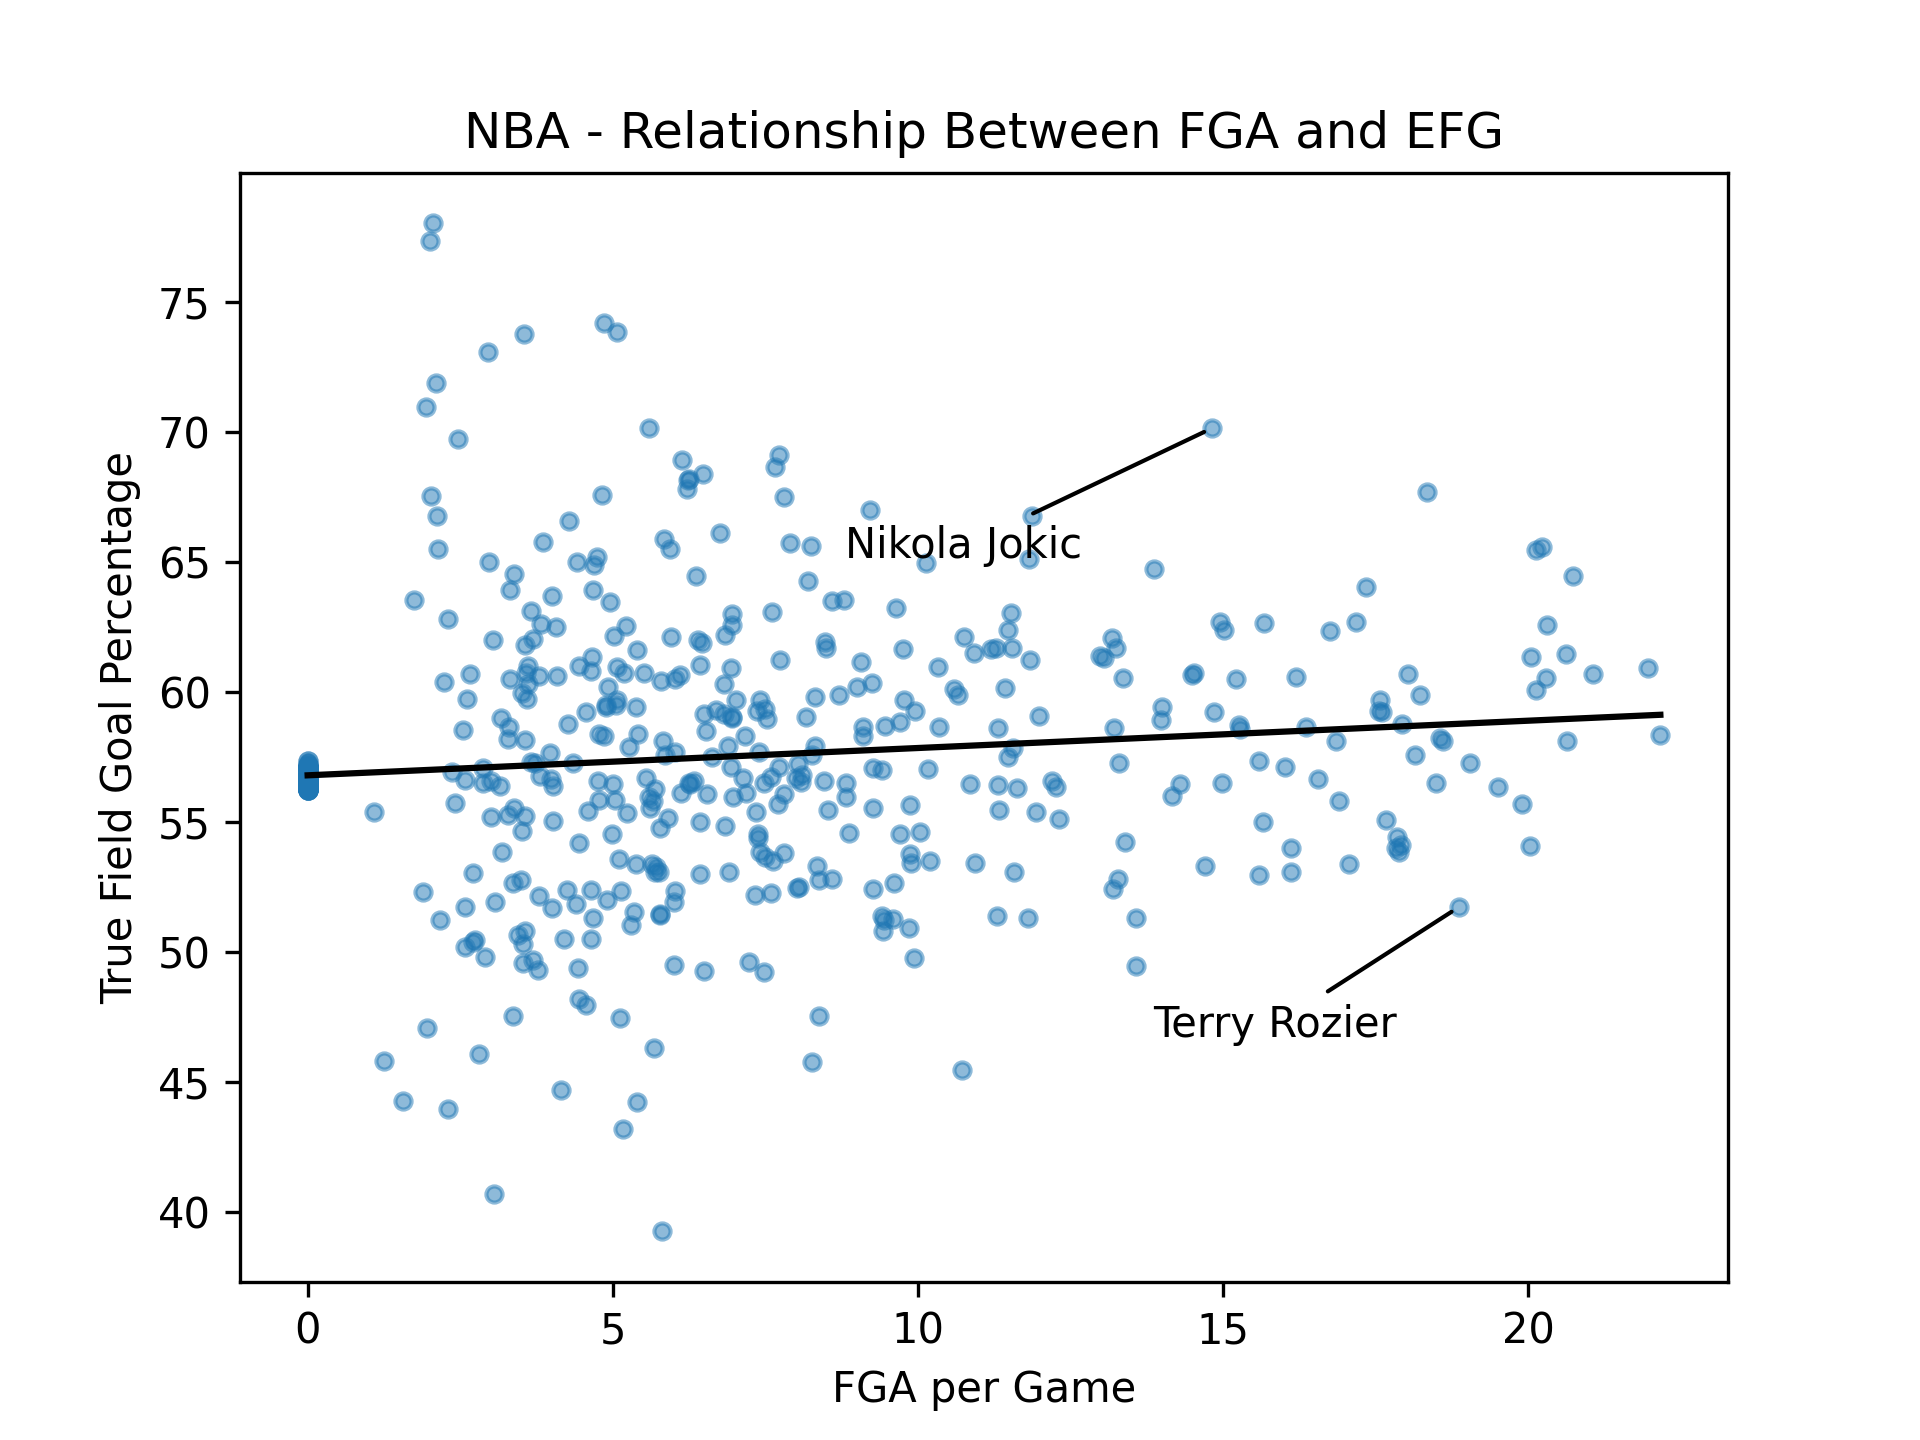
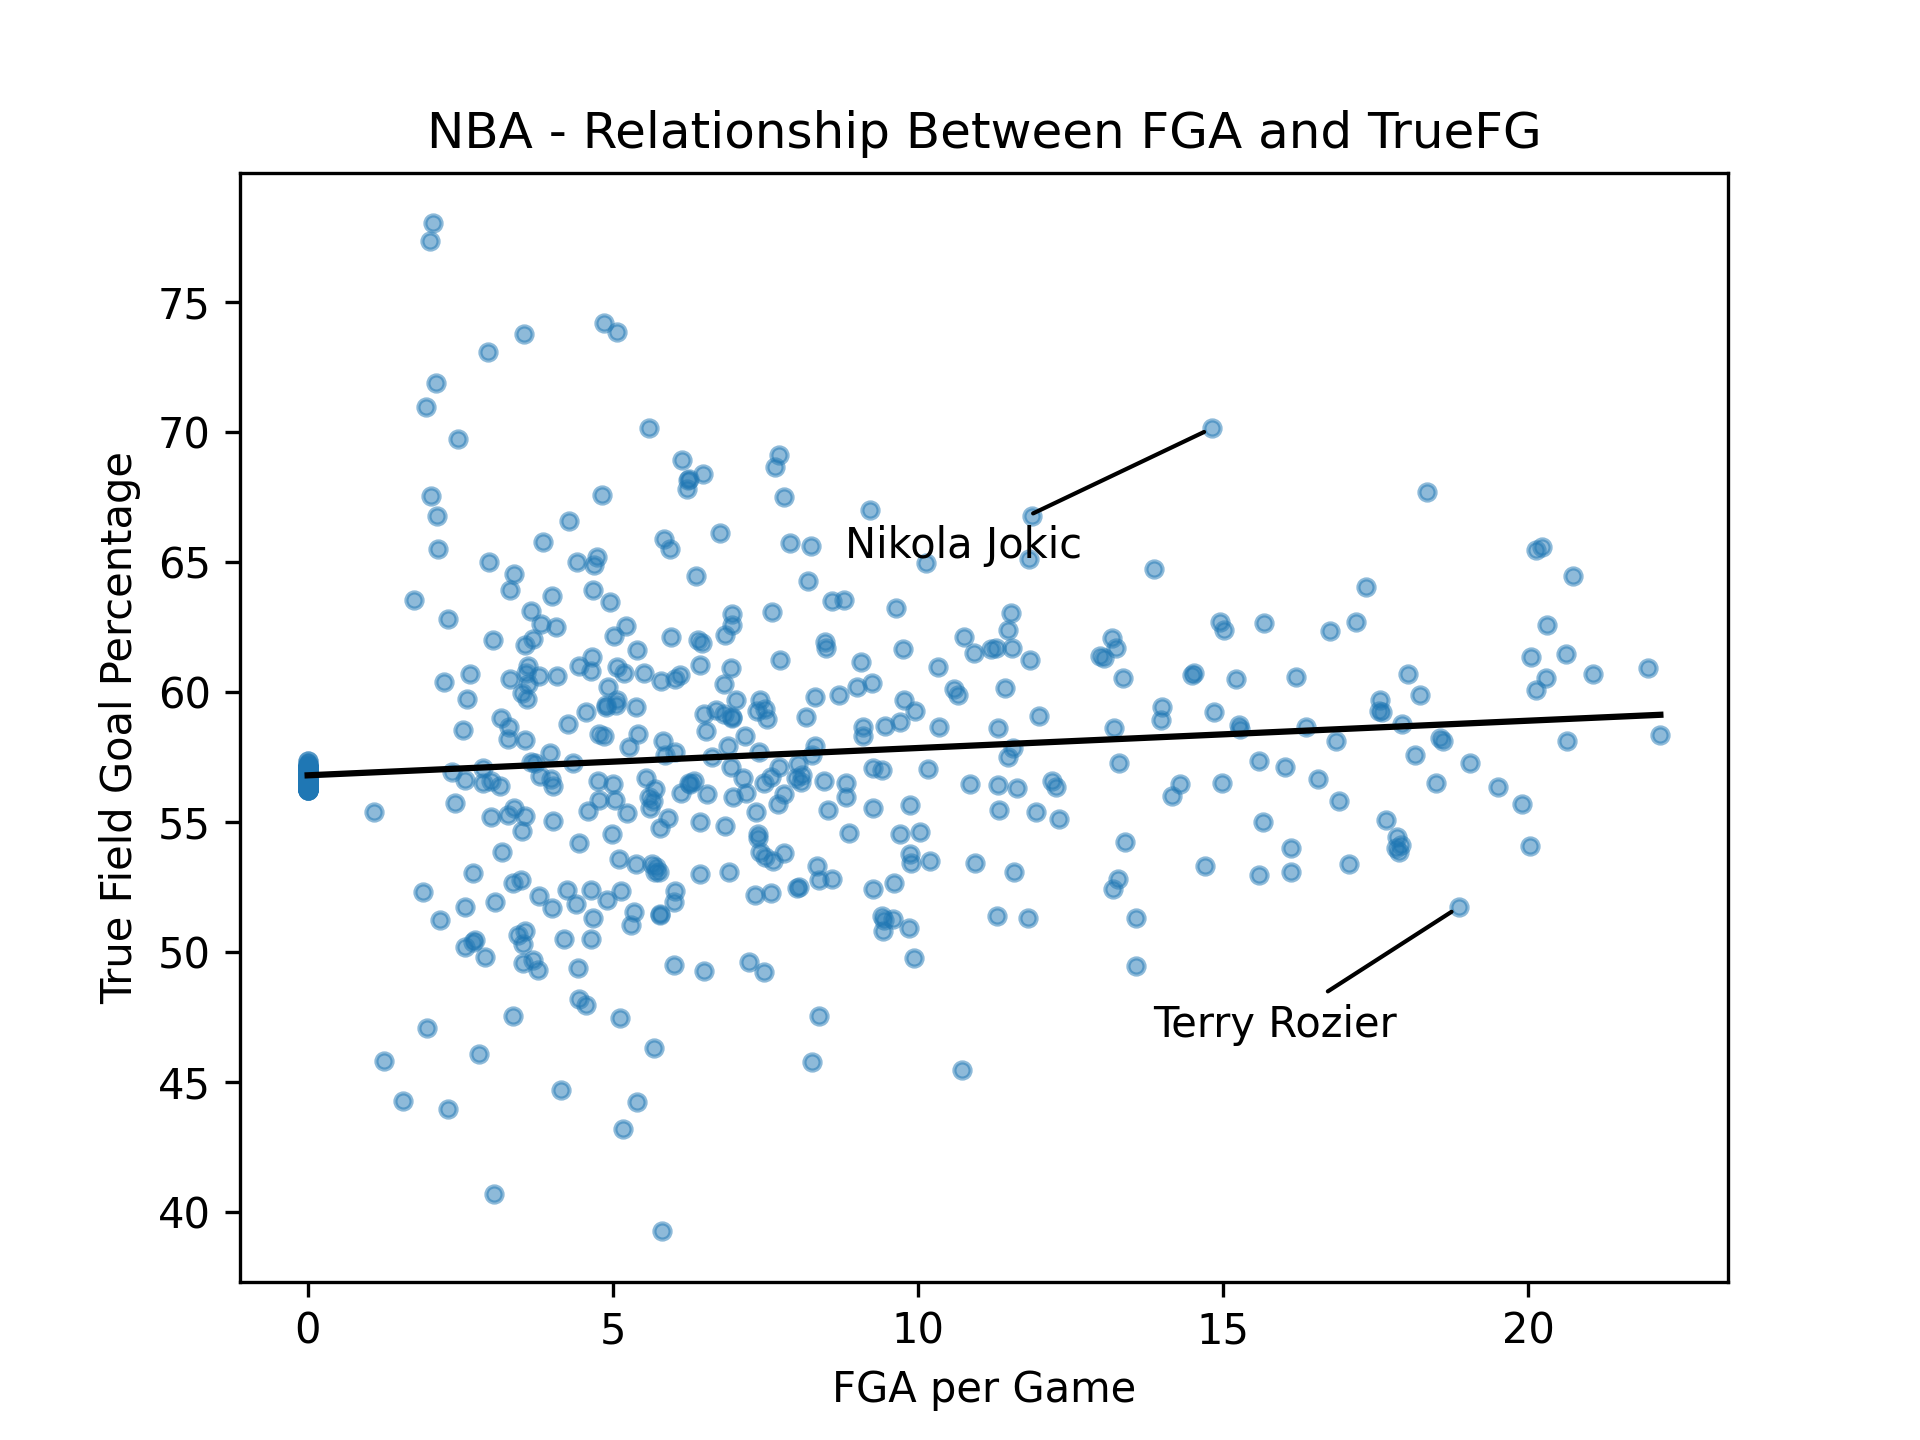
ちょっとした変更

Changed region(s): [[0.2188, 0.0625, 0.8125, 0.125]]

diff --git a/show_true_shooting.py b/show_true_shooting.py
@@ -74,7 +74,7 @@ def get_efg_graph(num1,num2):
     # Now, lets make a plot with matplot lib using a iterative approach (which is easy to read)
     plt.scatter(x, eFG, s=15, alpha=.5)                            # Scatterplot:  Specfiy size(s) and transparency(alpha) of dots
     plt.plot(x, predicted_y, color = 'black')                    # line: Add line for regression line w/ predicted values
-    plt.title('NBA - Relationship Between FGA and EFG')          # Give it a title
+    plt.title('NBA - Relationship Between FGA and TrueFG')          # Give it a title
     plt.xlabel('FGA per Game')                                   # Label x-axis
     plt.ylabel('True Field Goal Percentage')                                # Label y-axis
     plt.text(10,25, f'R2={r2}')

diff --git a/README.md b/README.md
@@ -1,1 +1,3 @@
 # nbaanalyze
+NBA のスタッツの分析を頑張ってます。
+Everything I work my ass off.
